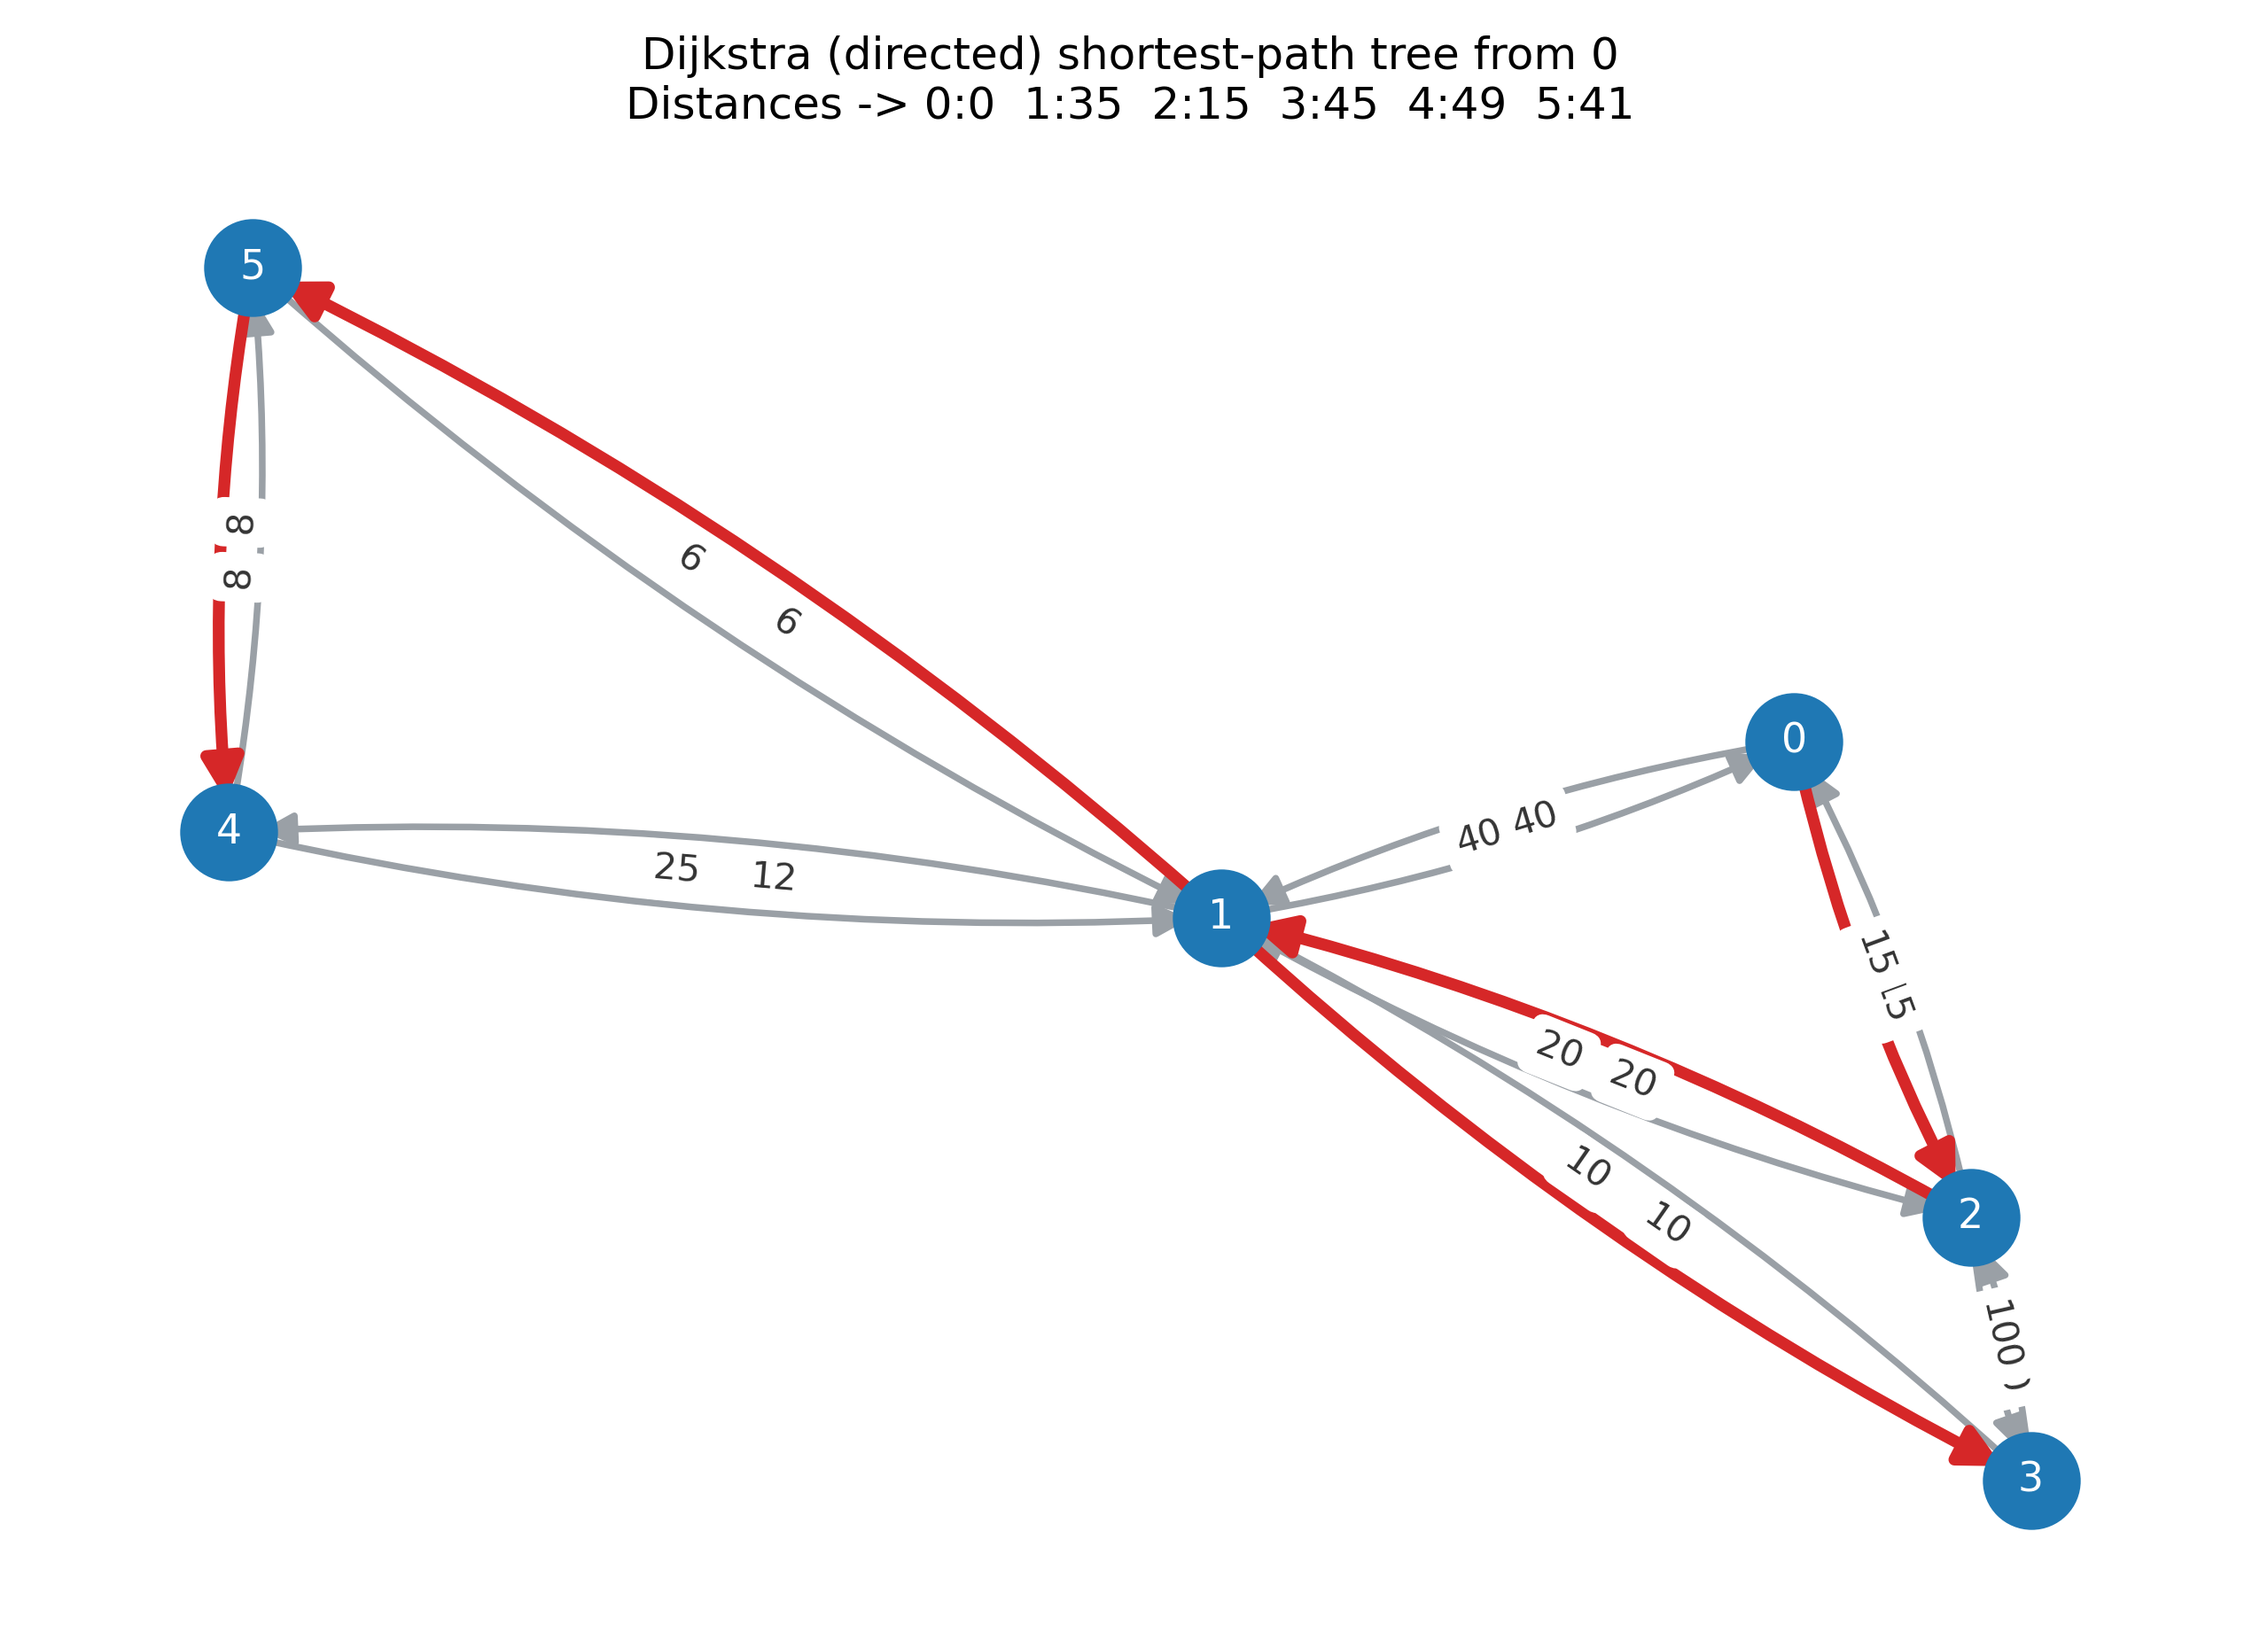
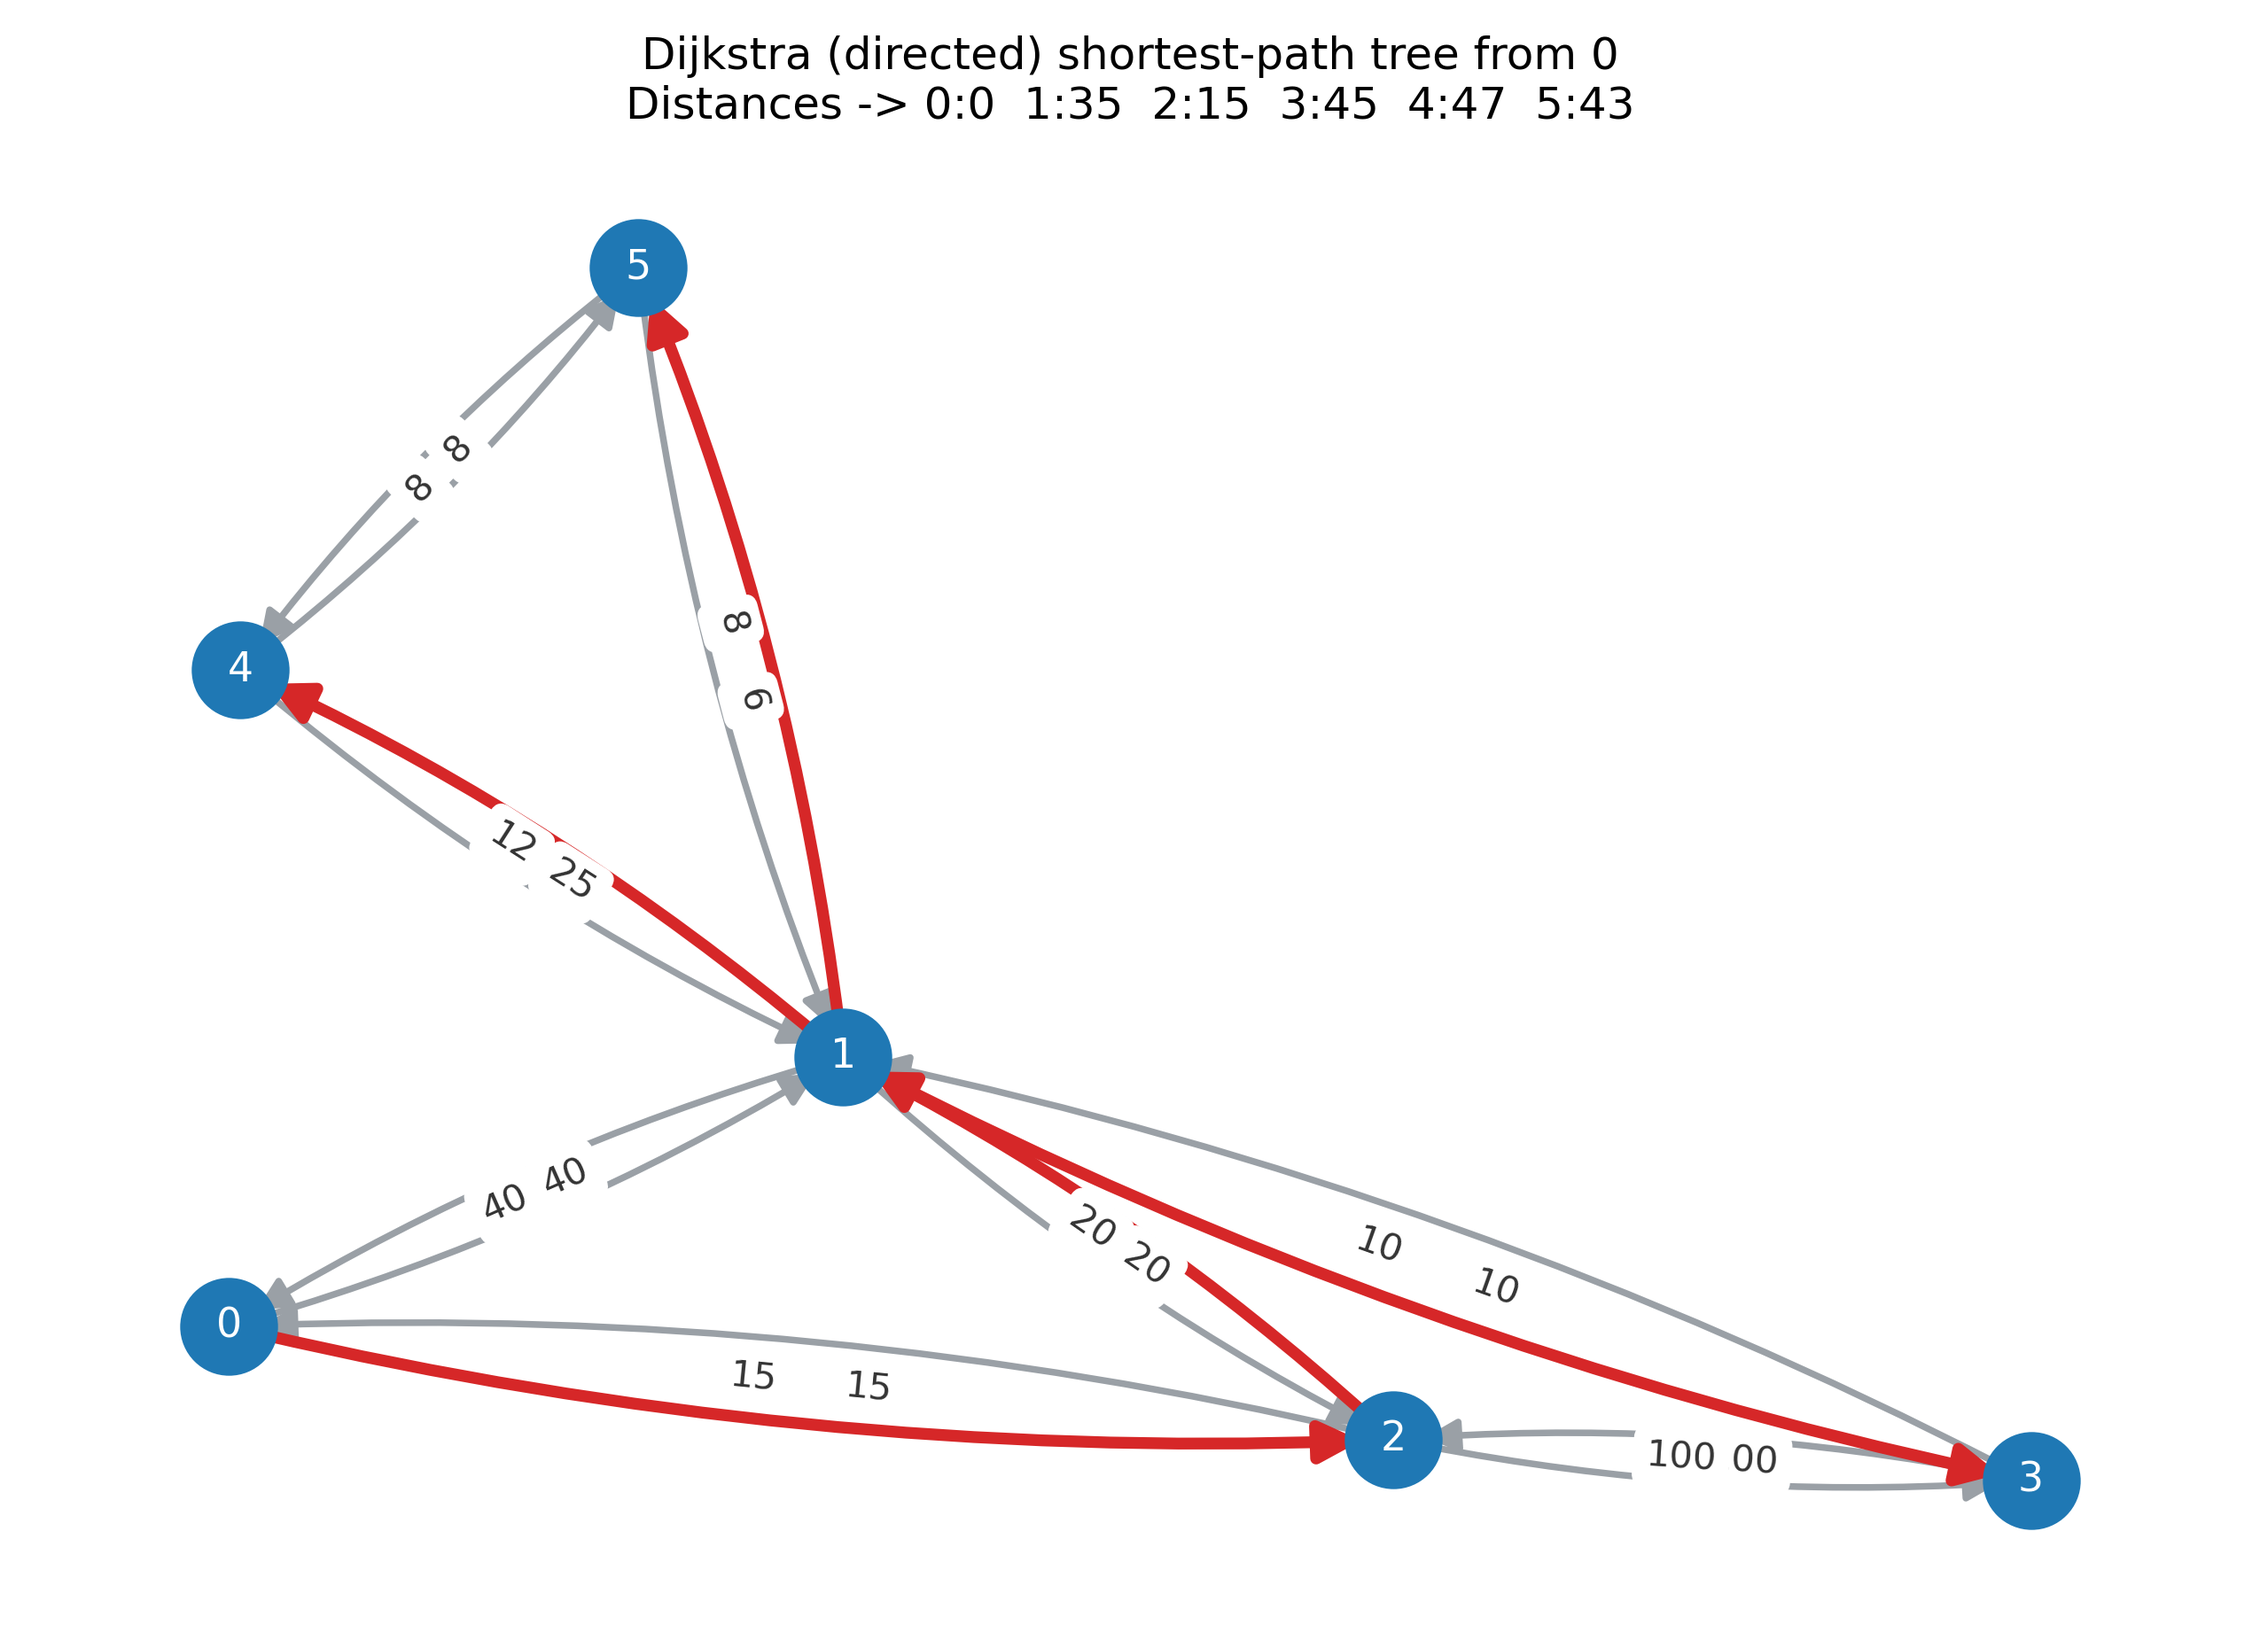
fix

diff --git a/dijkstra/dijkstra_graph.py b/dijkstra/dijkstra_graph.py
@@ -8,26 +8,8 @@ Data source: people.sc.fsu.edu dijkstra (6 nodes, 8 links, nonnegative weights)
 import math
 import numpy as np
 import matplotlib.pyplot as plt
-
-# --- Example adjacency matrix (Inf means no edge), from Burkardt's page ---
-# Nodes: 0..5
-INF = math.inf
-OHD = np.array(
-    [
-        [0, 40, 15, INF, INF, INF],
-        [40, 0, 20, 10, 25, 6],
-        [15, 20, 0, 100, INF, INF],
-        [INF, 10, 100, 0, INF, INF],
-        [INF, 25, INF, INF, 0, 8],
-        [INF, 6, INF, INF, 8, 0],
-    ],
-    dtype=float,
-)
-
-SOURCE = 0  # start node
-
-# --- Dijkstra (heap-based) to compute parent tree for plotting ---
 import heapq
+import networkx as nx
 
 
 def dijkstra_parent_tree(dist_mat: np.ndarray, src: int):
@@ -55,23 +37,7 @@ def dijkstra_parent_tree(dist_mat: np.ndarray, src: int):
     return dist, parent
 
 
-dist, parent = dijkstra_parent_tree(OHD, SOURCE)
-
-# --- Build edge list ---
-edges = []
-weights = {}
-n = OHD.shape[0]
-for i in range(n):
-    for j in range(i + 1, n):
-        if OHD[i, j] != math.inf:
-            edges.append((i, j))
-            weights[(i, j)] = OHD[i, j]
-
-
-# --- Plot with networkx if available; otherwise fallback ---
 def draw_with_networkx():
-    import networkx as nx
-
     G = nx.Graph()
     G.add_nodes_from(range(n))
     for u, v in edges:
@@ -119,5 +85,34 @@ def draw_with_networkx():
 
 
 if __name__ == "__main__":
-    import networkx as _nx  # noqa
+    # --- Example adjacency matrix (Inf means no edge), from Burkardt's page ---
+    # Nodes: 0..5
+    INF = math.inf
+    OHD = np.array(
+        [
+            [  0, 40,  15, INF, INF, INF],
+            [ 40,  0,  20,  10,  25,   6],
+            [ 15, 20,   0, 100, INF, INF],
+            [INF, 10, 100,   0, INF, INF],
+            [INF, 25, INF, INF,   0,   8],
+            [INF,  6, INF, INF,   8,   0],
+        ],
+        dtype=float,
+    )
+
+    SOURCE = 0  # start node
+
+    # --- Dijkstra (heap-based) to compute parent tree for plotting ---
+    dist, parent = dijkstra_parent_tree(OHD, SOURCE)
+
+    # --- Build edge list ---
+    edges = []
+    weights = {}
+    n = OHD.shape[0]
+    for i in range(n):
+        for j in range(i + 1, n):
+            if OHD[i, j] != math.inf:
+                edges.append((i, j))
+                weights[(i, j)] = OHD[i, j]
+
     draw_with_networkx()

diff --git a/dijkstra/dijkstra_graph_direction.py b/dijkstra/dijkstra_graph_direction.py
@@ -11,10 +11,10 @@ OHD = np.array(
     [
         #  0    1    2    3    4    5
         [  0, 40,  15, INF, INF, INF],  # 0
-        [ 40,  0,  20,  10,  25,   6],  # 1
+        [ 40,  0,  20,  10,  12,   8],  # 1
         [ 15, 20,   0, 100, INF, INF],  # 2
         [INF, 10, 100,   0, INF, INF],  # 3
-        [INF, 12, INF, INF,   0,   8],  # 4  ← 1↔4 が非対称（1→4=25, 4→1=12）
+        [INF, 25, INF, INF,   0,   8],  # 4  ← 1↔4 が非対称（1→4=25, 4→1=12）
         [INF,  6, INF, INF,   8,   0],  # 5
     ],
     dtype=float,
